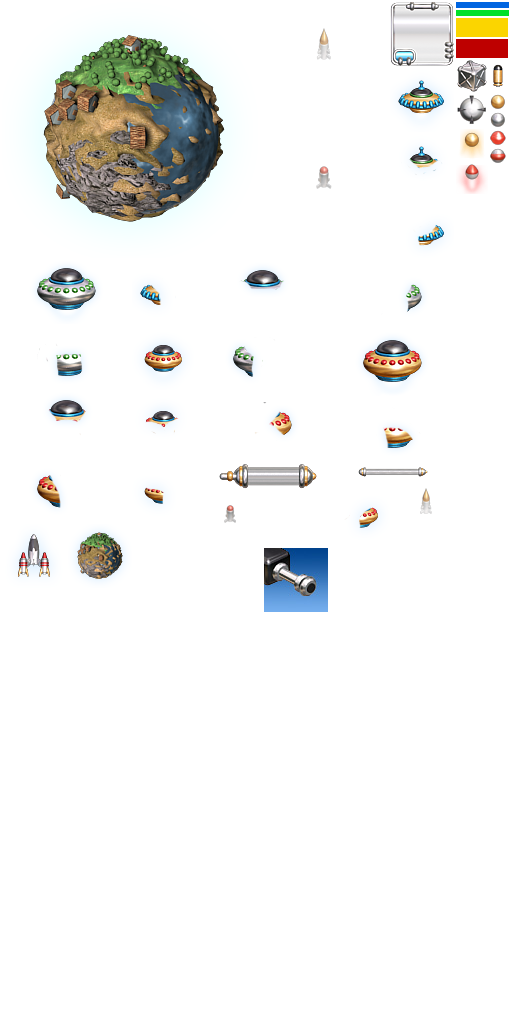
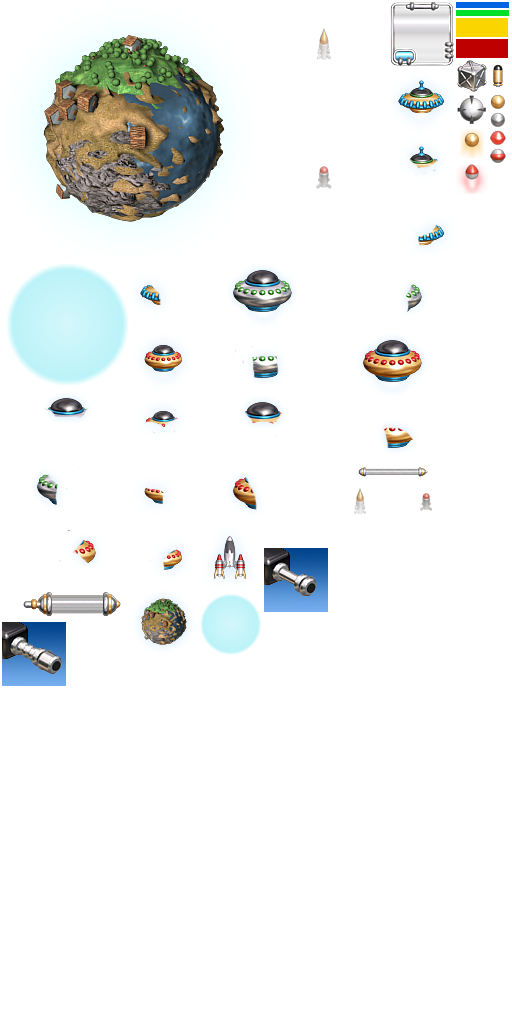
add revival and move item

diff --git a/js/ShipController.js b/js/ShipController.js
@@ -6,6 +6,10 @@ class ShipController {
             "assets",
             spriteName
         );
+
+        this.x = x;
+        this.y = y;
+
         this.configs = configs;
 
         this.timeSinceLastFire = 0;
@@ -14,12 +18,16 @@ class ShipController {
 
         this.sprite.anchor = new Phaser.Point(0.5, 0.5);
 
+        this.timeSinceLastRevival = 0;
+
         Clash.game.physics.arcade.enableBody(this.sprite);
         this.sprite.body.setCircle(this.configs.radius, this.sprite.width / 2 - this.configs.radius,
             this.sprite.height / 2 - this.configs.radius);
     }
 
     update() {
+
+        this.playerRevival();
 
         if (this.sprite.health <= 0) this.sprite.health = 0;
 
@@ -34,6 +42,17 @@ class ShipController {
 
         if (Clash.game.input.activePointer.isDown) {
             this.fire();
+        }
+    }
+
+    playerRevival() {
+        if (this.sprite.alive) {
+            this.timeSinceLastRevival = 0;
+        } else {
+            this.timeSinceLastRevival += Clash.game.time.physicsElapsed;
+            if (this.timeSinceLastRevival >= Clash.configs.timePlayerRevival) {
+                this.sprite.reset(this.x, this.y, this.configs.health);
+            }
         }
     }
 
@@ -53,14 +72,24 @@ class ShipController {
 
         var x2 = Math.sqrt(t) + xCenter;
         var y2 = (yPointer - yCenter) * (x2 - xCenter) / (xPointer - xCenter) + yCenter;
+        // console.log("x1 =" + x1 +" y1 =" + y1);
+        // console.log("x2 =" + x2 +" y2 =" + y2);
 
         var t1 = (Math.pow(xPointer - x1, 2) + Math.pow(yPointer - y1, 2));
         var t2 = (Math.pow(xPointer - x2, 2) + Math.pow(yPointer - y2, 2));
 
         if (t1 <= t2) {
-            Clash.game.physics.arcade.moveToXY(this.sprite, x1, y1, this.configs.shipSpeed);
+            if (!isNaN(x1) && !isNaN(y1)) {
+                this.x = x1;
+                this.y = y1;
+                Clash.game.physics.arcade.moveToXY(this.sprite, x1, y1, this.configs.shipSpeed);
+            }
         } else {
-            Clash.game.physics.arcade.moveToXY(this.sprite, x2, y2, this.configs.shipSpeed);
+            if (!isNaN(x2) && !isNaN(y2)) {
+                this.x = x2;
+                this.y = y2;
+                Clash.game.physics.arcade.moveToXY(this.sprite, x2, y2, this.configs.shipSpeed);
+            }
         }
     }
 
@@ -68,12 +97,12 @@ class ShipController {
     fire() {
         if (this.timeSinceLastFire > this.configs.cooldown) {
             this.timeSinceLastFire = 0;
-            if (Clash.eatItem == true){
-              this.createBullet2(new Phaser.Point(0.5, 0.5));
+            if (Clash.eatItem == true) {
+                this.createBullet2(new Phaser.Point(0.5, 0.5));
             }
-              else {
+            else {
                 this.createBullet1(new Phaser.Point(0.5, 0.5));
-              }
+            }
             //this.createBullet(new Phaser.Point(0.5, 0.5));
         }
     }

diff --git a/js/main.js b/js/main.js
@@ -1,6 +1,7 @@
 var Clash = {};
 Clash.configs = {
-    spawntimeEnemy: 0.6
+    spawntimeEnemy: 0.6,
+    timePlayerRevival: 2
 };
 Clash.display = {};
 
@@ -42,12 +43,12 @@ var create = function () {
 
     Clash.background = Clash.game.add.tileSprite(0, 0, 1024, 1024, 'background');
     Clash.backgroundMusic = Clash.game.add.audio('backgroundMusic');
-    Clash.backgroundMusic.volume = 20;
+    Clash.backgroundMusic.volume = 5;
     Clash.backgroundMusic.loopFull();
 
 
     Clash.earth = new Earth(Clash.game.height / 2, Clash.game.width / 2, "base.png", {
-        health: 30
+        health: 100
     });
 
     Clash.playerBulletGroup = Clash.game.add.physicsGroup();
@@ -55,14 +56,14 @@ var create = function () {
     Clash.player = new ShipController(Clash.game.height / 2, Clash.game.width / 2 - Clash.earth.sprite.width / 2, "player1.png", {
         cooldown: 0.5,
         radius: 25,
-        health: 20,
-        shipSpeed: 700
+        health: 5,
+        shipSpeed: 1000
     });
 
     Clash.enemyGroup = Clash.game.add.physicsGroup();
 
     Clash.itemGroup = Clash.game.add.physicsGroup();
-    Clash.item = new ItemController(300,300,"frame0000.png",{
+    Clash.item = new ItemController("frame0000.png",{
       health : 1
     })
     Clash.eatItem = false;

diff --git a/js/ItemExtend/ItemController.js b/js/ItemExtend/ItemController.js
@@ -1,13 +1,27 @@
 class ItemController {
-  constructor(x,y,spriteName,configs){
-    this.sprite = Clash.itemGroup.create(
-      x,
-      y,
-      "assets",
-      spriteName
-    );
-    this.configs = configs;
-    this.sprite.anchor = new Phaser.Point(0.5, 0.5);
-    this.sprite.health = this.configs.health;
-  }
+    constructor(spriteName, configs) {
+        this.distanceMinWithEarth = 400;
+        this.randomLocation();
+        this.sprite = Clash.itemGroup.create(
+            this.x,
+            this.y,
+            "assets",
+            spriteName
+        );
+        this.configs = configs;
+        this.sprite.anchor = new Phaser.Point(0.5, 0.5);
+        this.sprite.health = this.configs.health;
+        Clash.game.physics.arcade.moveToObject(this.sprite, Clash.earth.sprite, this.configs.enemySpeed);
+    }
+
+    randomLocation() {
+
+        do {
+            this.x = Clash.game.world.randomX;
+            this.y = Clash.game.world.randomY;
+
+            if (Math.sqrt((this.x - Clash.game.height / 2) * (this.x - Clash.game.height / 2) +
+                    (this.y - Clash.game.width / 2) * (this.y - Clash.game.width / 2)) >= this.distanceMinWithEarth) break;
+        } while (true);
+    }
 }

diff --git a/js/BulletExtend/BulletController.js b/js/BulletExtend/BulletController.js
@@ -1,5 +1,5 @@
 class BulletController {
-    constructor(position, spriteName, direction, physicsGroup, nameMusic, config) {
+    constructor(position, spriteName, direction, physicsGroup, config) {
         this.sprite = physicsGroup.create(
             position.x,
             position.y,
@@ -12,8 +12,8 @@ class BulletController {
 
         this.sprite.rotation = Clash.game.physics.arcade.angleToPointer(this.sprite) + Math.PI / 2;
         Clash.game.physics.arcade.moveToPointer(this.sprite, config.bulletSpeed);
-
-        this.sprite.music = Clash.game.add.audio(nameMusic);
+        Clash.display.weapon.frameName = config.imageWeapon;
+        this.sprite.music = Clash.game.add.audio(config.nameMusic);
         this.sprite.music.play();
 
 

diff --git a/js/BulletExtend/BulletControllerType1.js b/js/BulletExtend/BulletControllerType1.js
@@ -5,9 +5,10 @@ class BulletControllerType1 extends BulletController {
             "cover-bullet.png",
             direction,
             Clash.playerBulletGroup,
-            'shotcannon',
             {
-                bulletSpeed: 500
+                bulletSpeed: 500,
+                imageWeapon: 'cannon1.jpg',
+                nameMusic: 'shotcannon'
             }
         );
     }

diff --git a/js/BulletExtend/BulletControllerType2.js b/js/BulletExtend/BulletControllerType2.js
@@ -5,9 +5,10 @@ class BulletControllerType2 extends BulletController {
             "clock1.png",
             direction,
             Clash.playerBulletGroup,
-            'shotcannon',
             {
-                bulletSpeed: 800
+                bulletSpeed: 800,
+                imageWeapon: 'cannon2.jpg',
+                nameMusic: 'shotcannon'
             }
         );
     }
